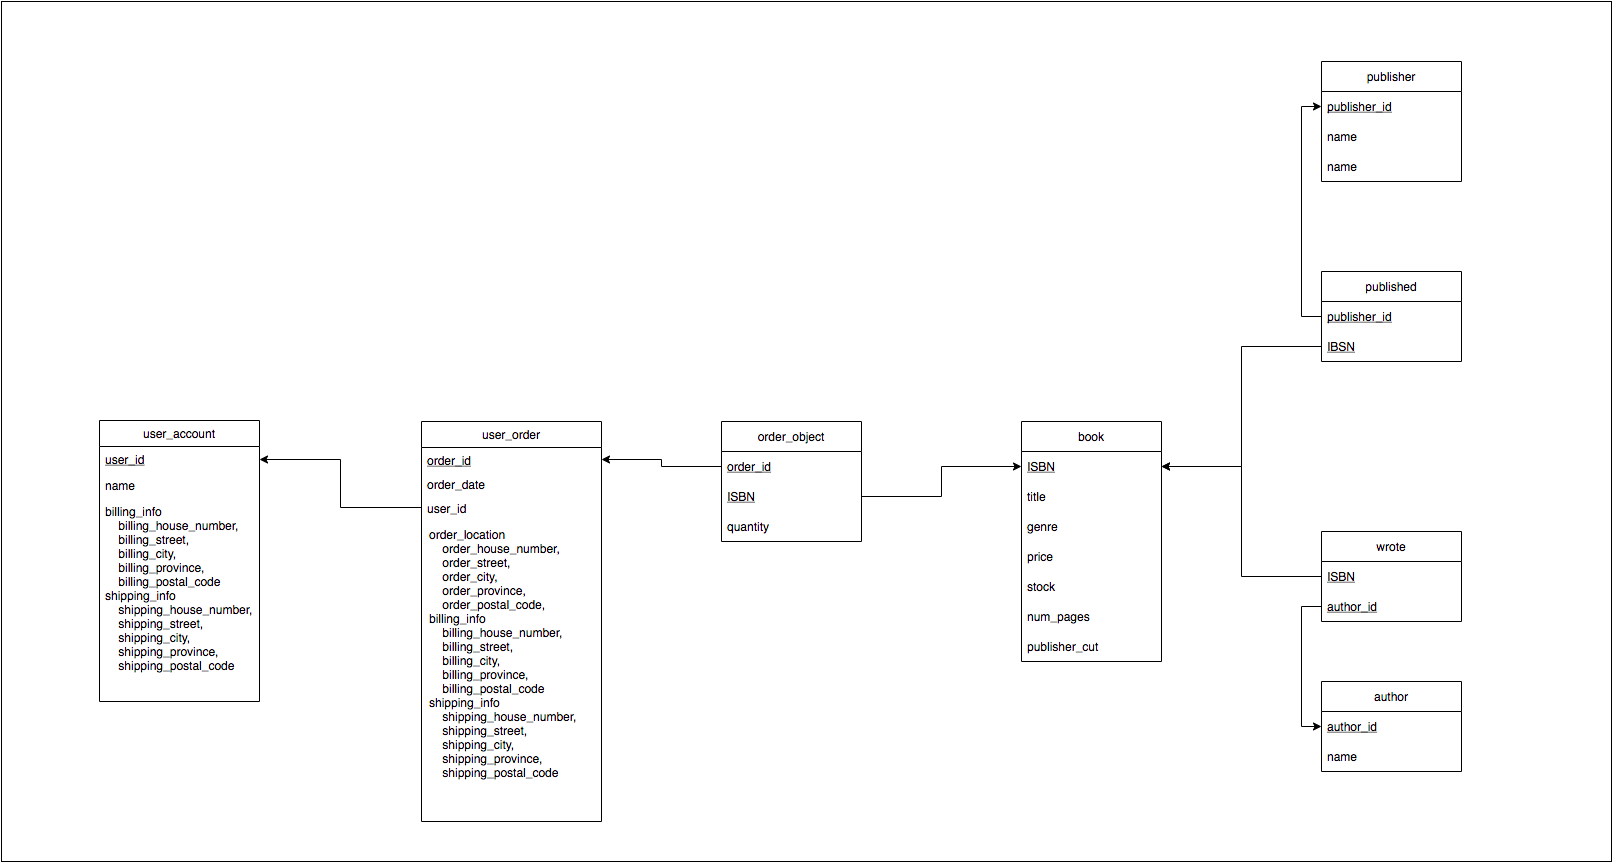
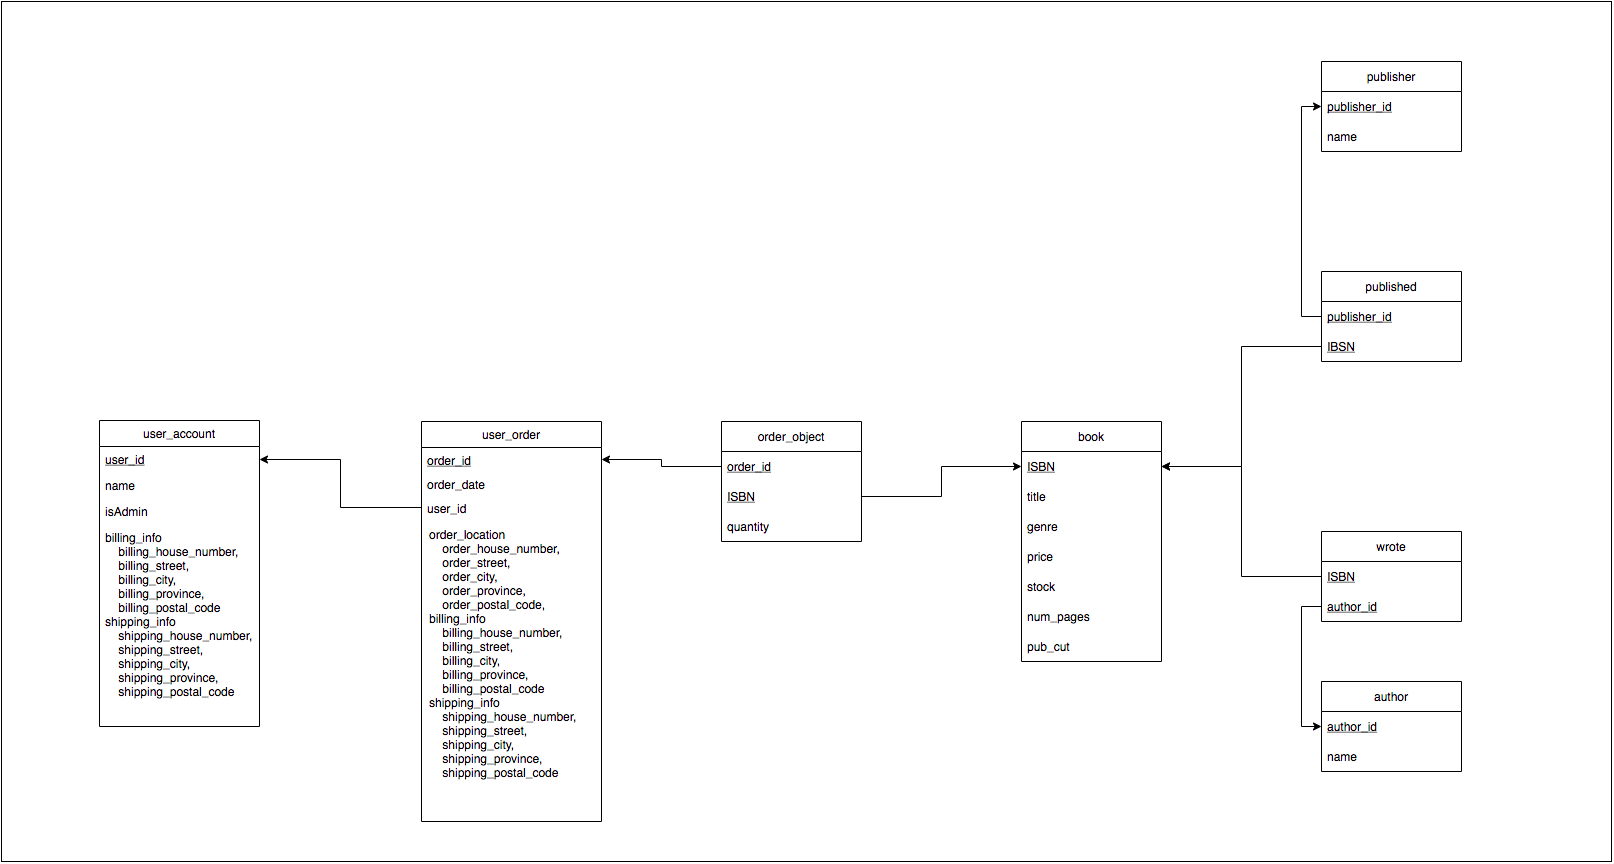
Change to DB, added publisher payment functions

Changed region(s): [[0.062, 0.5625, 0.1549, 0.8125], [0.8055, 0.1875, 0.8364, 0.2188], [0.6506, 0.7188, 0.6815, 0.75]]

diff --git a/instructions/deployment.md b/instructions/deployment.md
@@ -50,3 +50,10 @@ How we deployed our app
                 console.log(JSON.stringify(row));
             }
         });
+
+MAKING THE DB
+RUN THE SQL FILES IN THE FOLLOWING ORDER
+1. Make_Table.sql
+2. Insert_Views.sql
+3. CREATE_FUNCTIONS.sql
+4. Insert_Values.sql
